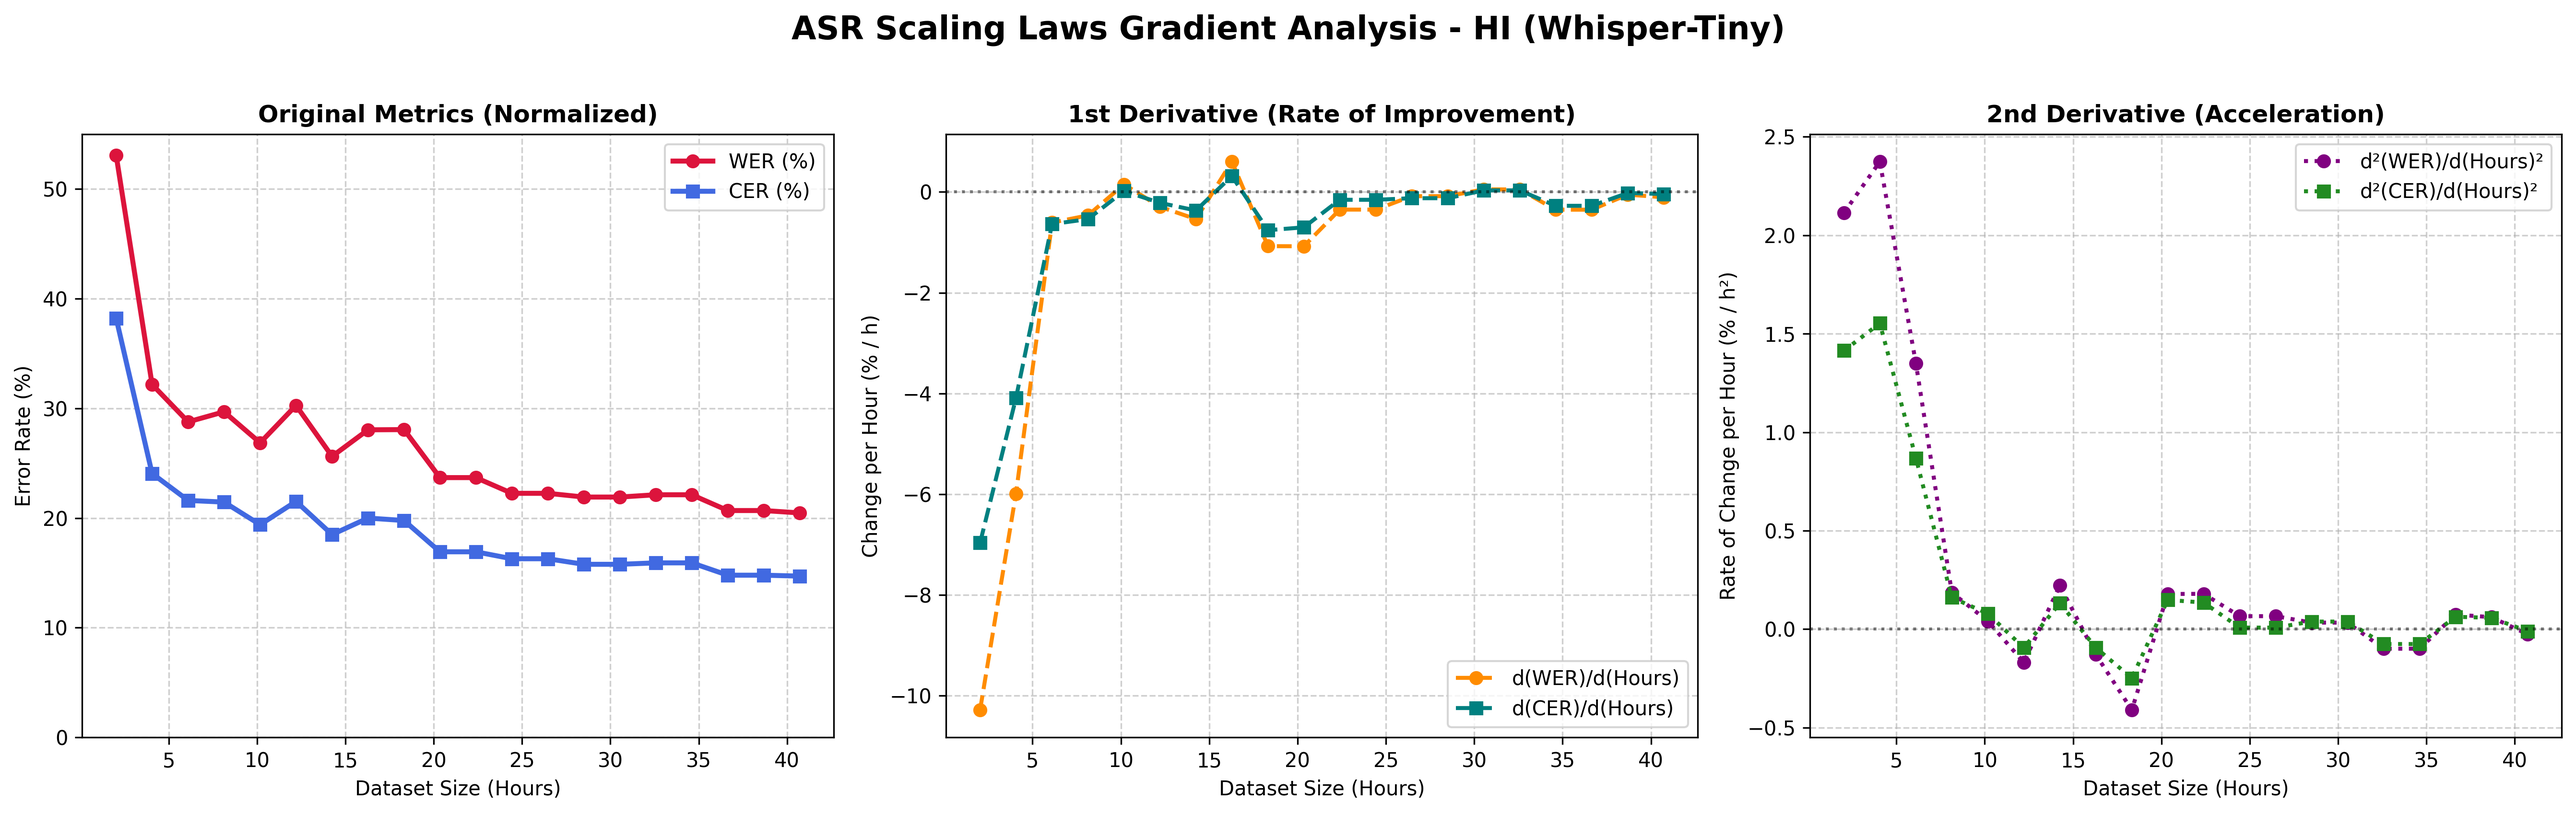
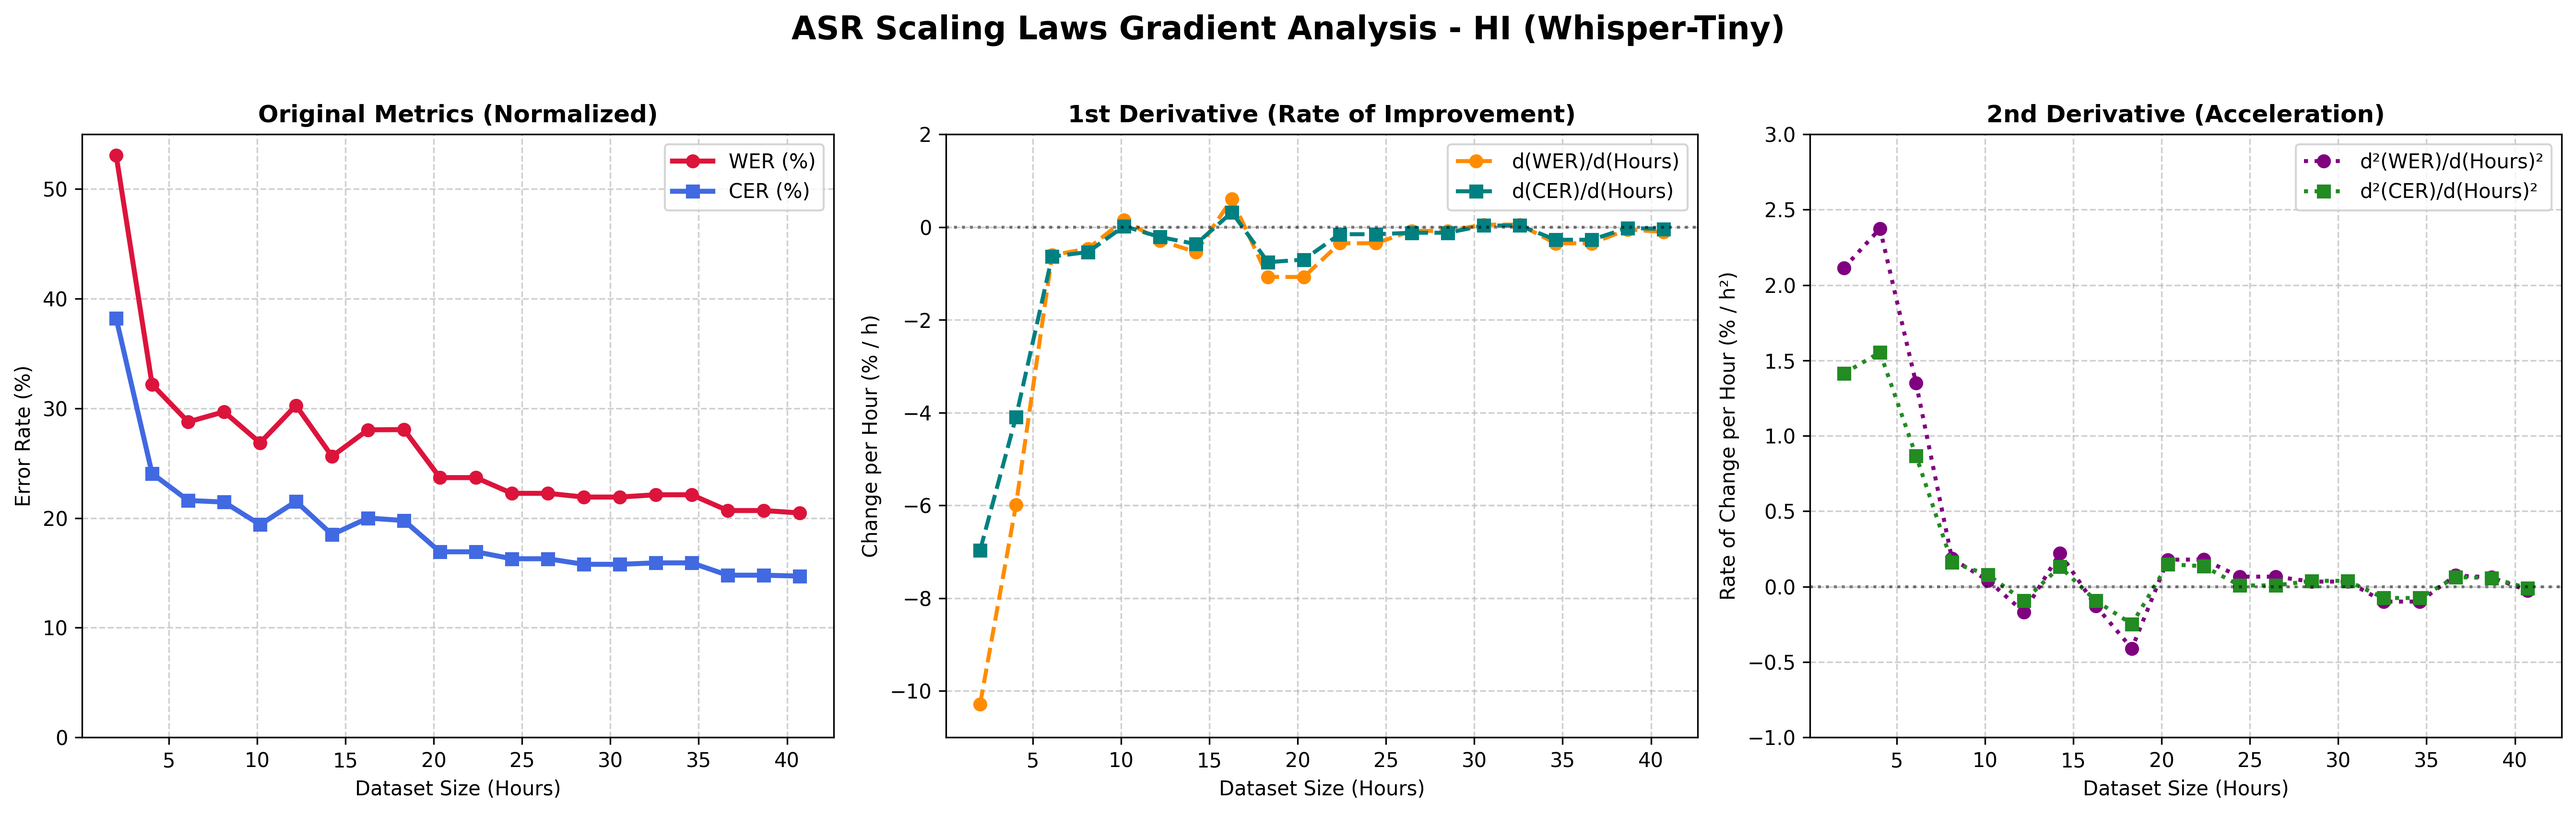
style: unify 1st and 2nd derivative plot ranges for both languages

diff --git a/benchmark/plot_gradients.py b/benchmark/plot_gradients.py
@@ -51,6 +51,7 @@ def plot_gradients_for_lang(lang: str):
     axes[1].set_xlabel('Dataset Size (Hours)', fontsize=10)
     axes[1].set_ylabel('Change per Hour (% / h)', fontsize=10)
     axes[1].grid(True, linestyle='--', alpha=0.6)
+    axes[1].set_ylim(-11, 2)
     axes[1].legend(fontsize=10)
 
     # Panel 3: Second Derivative (Curvature / Acceleration)
@@ -61,6 +62,7 @@ def plot_gradients_for_lang(lang: str):
     axes[2].set_xlabel('Dataset Size (Hours)', fontsize=10)
     axes[2].set_ylabel('Rate of Change per Hour (% / h²)', fontsize=10)
     axes[2].grid(True, linestyle='--', alpha=0.6)
+    axes[2].set_ylim(-1, 3)
     axes[2].legend(fontsize=10)
 
     plt.suptitle(f"ASR Scaling Laws Gradient Analysis - {lang.upper()} (Whisper-Tiny)", fontsize=16, fontweight='bold', y=1.02)
